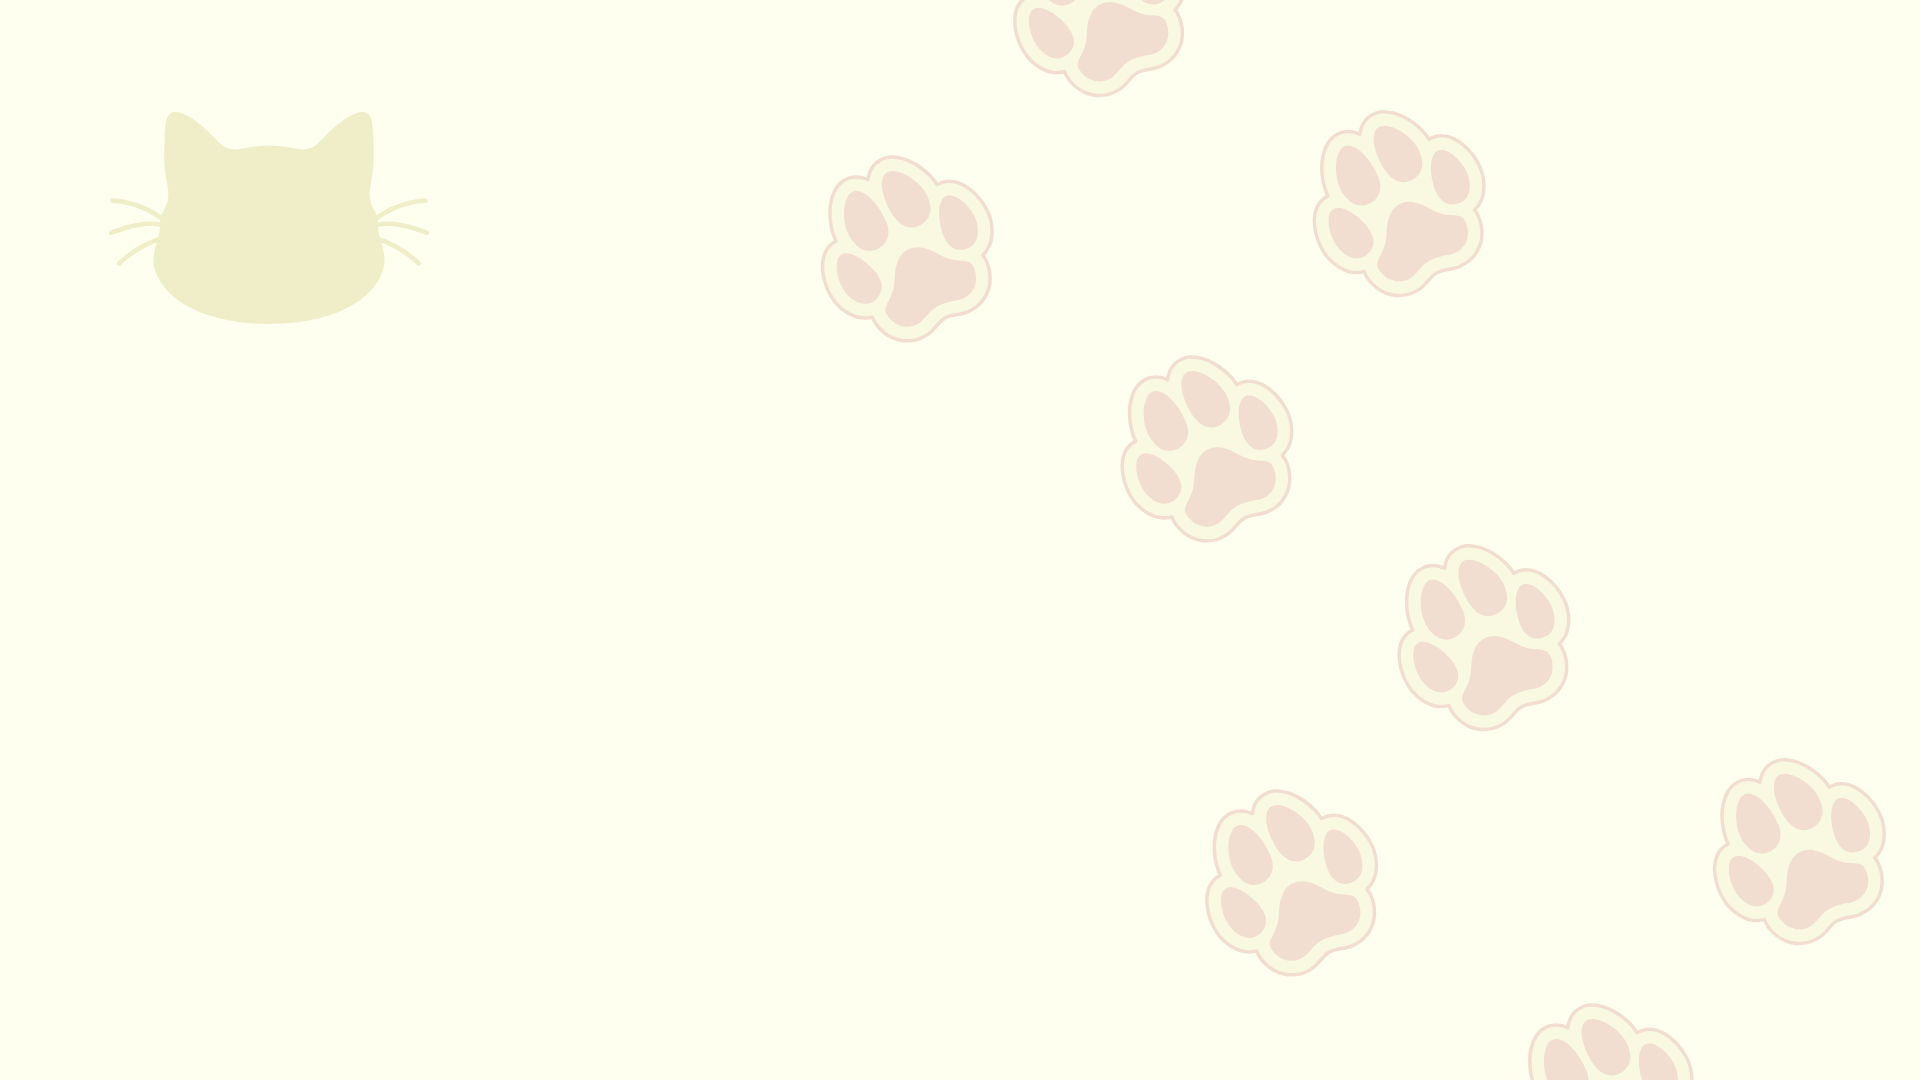
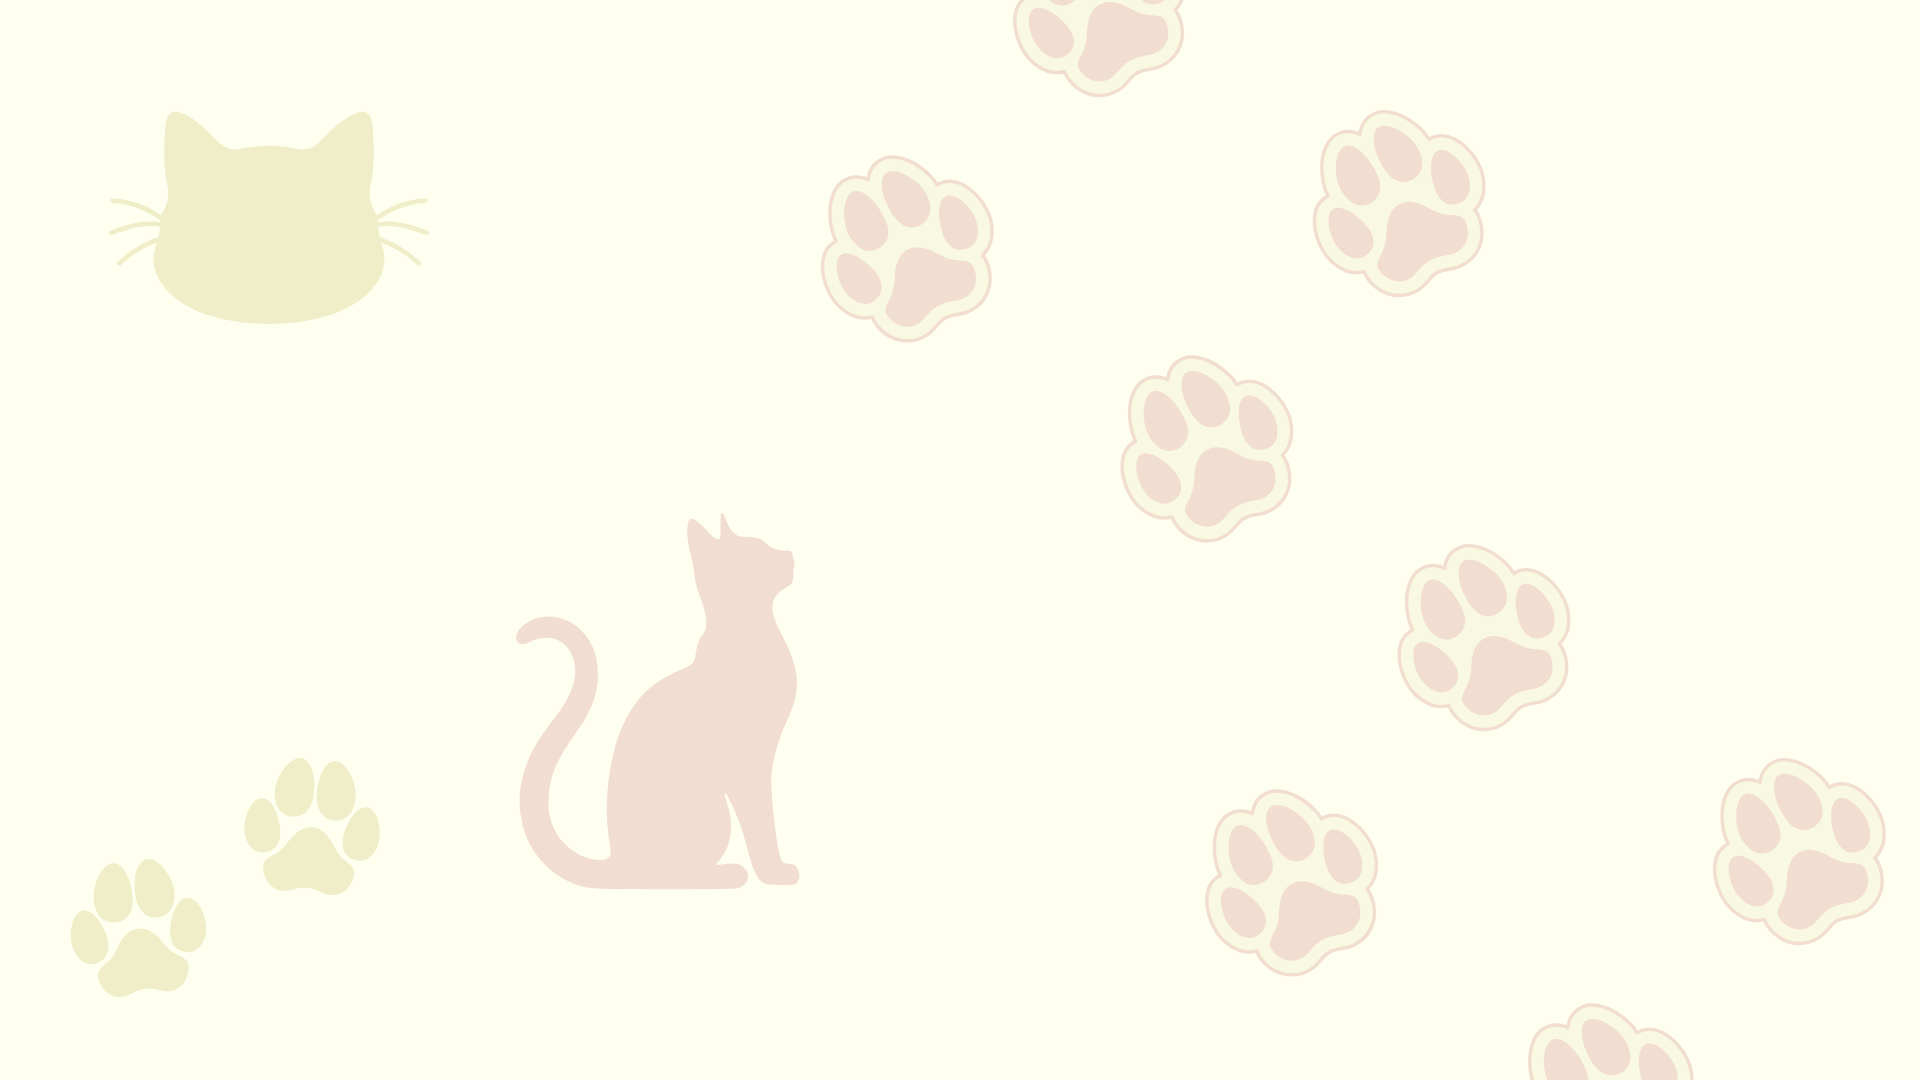
Login Page

Changed region(s): [[0.25, 0.4889, 0.4375, 0.825], [0.125, 0.7028, 0.2188, 0.825], [0.0312, 0.7944, 0.125, 0.9167]]

diff --git a/app/login_form/page.tsx b/app/login_form/page.tsx
@@ -3,33 +3,40 @@ import Image from "next/image";
 
 export default function Page() {
   return (
-    <div>
-      <header className=" bg-[#f0eec9] p-1.5  flex gap-4 my-1.5 mx-1 items-center rounded-xl">
+    <div className="bg-[url('/Background.png')] bg-cover bg-no-repeat bg-center w-full h-full min-h-screen">
+      <header>
         {/* Navbar */}
-        <div className="bg-[#f0eec9] rounded-xl p-1 md:flex md:grid-cols-1 md:items-center">
-          <Image src="/Bilai.png" width={32} height={32} alt="" />
+        <div className="md:flex md:grid-cols-1 md:items-center">
+          <Image src="/Bilai.png" width={48} height={48} alt="" />
           {/* ADD IN LOGO AND THE "BILAI" TEXT HERE */}
-          <h1 className="text-1xl font-matcha-mint font-normal text-[#212922] mx-0.5">
+          <h1 className="text-2xl font-matcha-mint text-[#212922] mx-0.5">
             bilai.
           </h1>
         </div>
       </header>
 
-      <div className="flex justify-center items-center bg-[url('/Background.png')] bg-cover bg-no-repeat bg-center w-full h-full min-h-screen ">
-      <h1 className="font-matcha-mint font-medium lg:text-3xl ">
-        WELCOME BACK
-        <h2></h2>
-      </h1>
+      <div className=" flex flex-col md:flex-row items-center md:items-center justify-center md:justify-between px-6 md:px-16 py-12 overflow-hidden gap-8 md:gap-0">
+        <div className="sm:mx-5 md:mx-10 xl:mx-30">
+          <h1 className="font-poppins font-bold text-[#FA7D1F] text-xs xl:text-xl flex justify-center">
+            A HOME FOR EVERY CAT
+          </h1>
+          <h1 className=" text-4xl xl:text-6xl font-matcha-mint text-[#212922] flex justify-center">
+            Welcome
+         </h1>
+           <h2 className="text-xs md:text-xl font-poppins font-bold text-[#212922] flex justify-center">
+            Your cats have been waiting.
+          </h2>
+      </div>
 
-        <div className="w-125 p-10 shadow-lg bg-gradient-to-b from-[#fffff6] via-[#fffff6] to-[#ffe4cf] rounded-md">
-          <h1 className="font-poppins font-extrabold lg:text-4xl text-[#212922] flex justify-center">
+        <div className=" w-125 p-15 shadow-lg bg-gradient-to-b from-[#fffff6] via-[#fffff6] to-[#ffe4cf] rounded-4xl my-10 xl:my-30 mx-30">
+          <h1 className="font-poppins font-extrabold text-2xl xl:text-3xl text-[#212922] flex justify-center">
             Log in to
-            <span className="font-matcha-mint font-normal lg:text-3xl text-[#212922] mx-2 lg:my-2">
+            <h1 className="font-matcha-mint font-normal text-2xl xl:text-3xl text-[#212922] mx-1.5 md:my-1">
               bilai.
-            </span>
+            </h1>
           </h1>
           <div>
-            <h2 className="flex justify-center items-center font-sans font-normal">
+            <h2 className="flex justify-center items-center font-sans font-normal ">
               {" "}
               Manage your listings and connect with adopters{" "}
             </h2>
@@ -45,6 +52,7 @@ export default function Page() {
             <input
               type="text"
               id="username"
+              placeholder=" your@example.com"
               className=" bg-[#fffeee00] border border-black w-full h-8 rounded-md"
             />
             <label
@@ -56,6 +64,7 @@ export default function Page() {
             <input
               type="password"
               id="username"
+              placeholder=" *******"
               className=" bg-[#fffeee00] border border-black w-full rounded-md h-8"
             />
             <p className="">Don&apos;t have an account?{""}

diff --git a/app/components/card.tsx b/app/components/card.tsx
@@ -9,7 +9,7 @@ export default function Card({ catInput }: { catInput: CreateCatInput }) {
     window.open(url, "_blank");
   }
   return (
-    <div className="w-fit rounded-2xl bg-[#f0eec9] shadow-md">
+    <div className="w-full rounded-2xl bg-[#f0eec9] shadow-md">
       <Image
         src={catInput.imageUrl}
         width={300}
